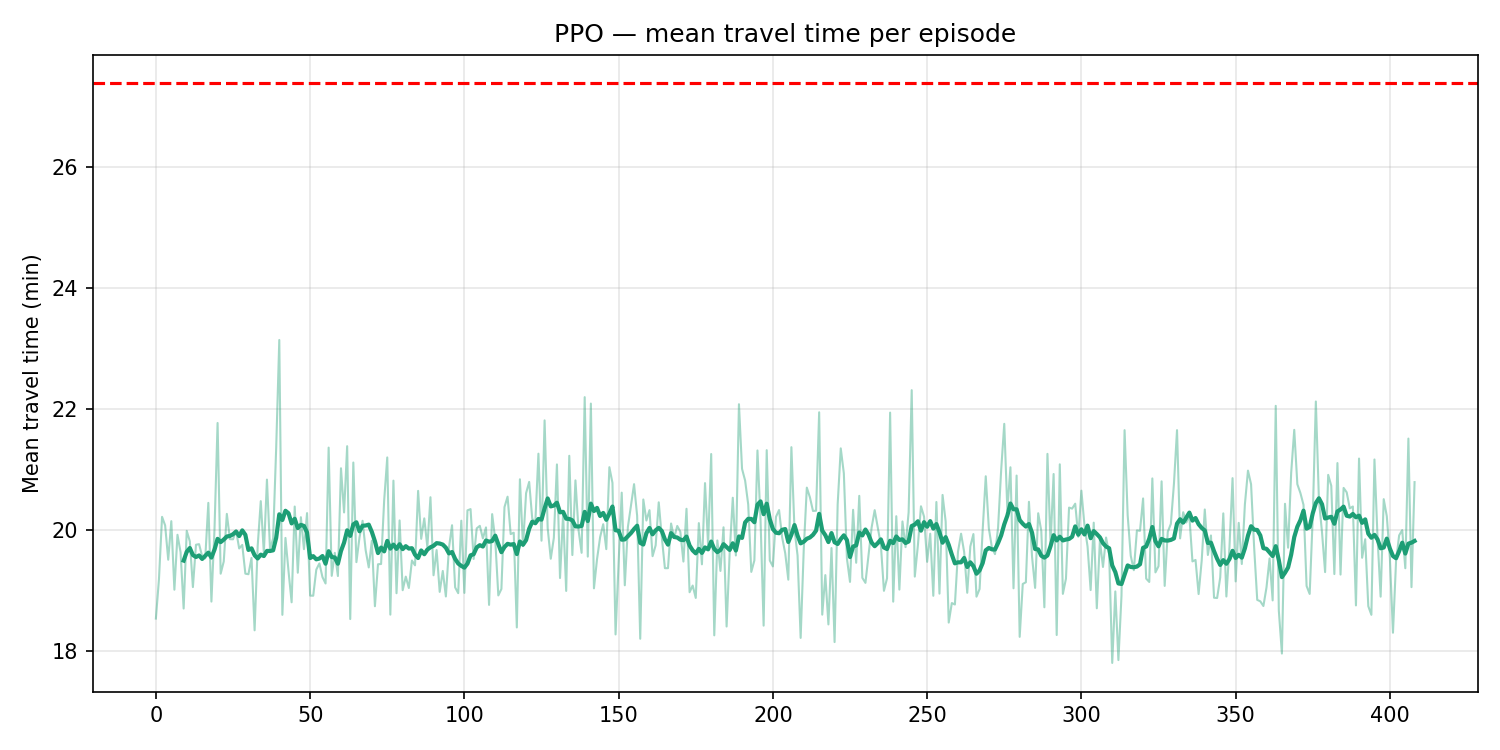
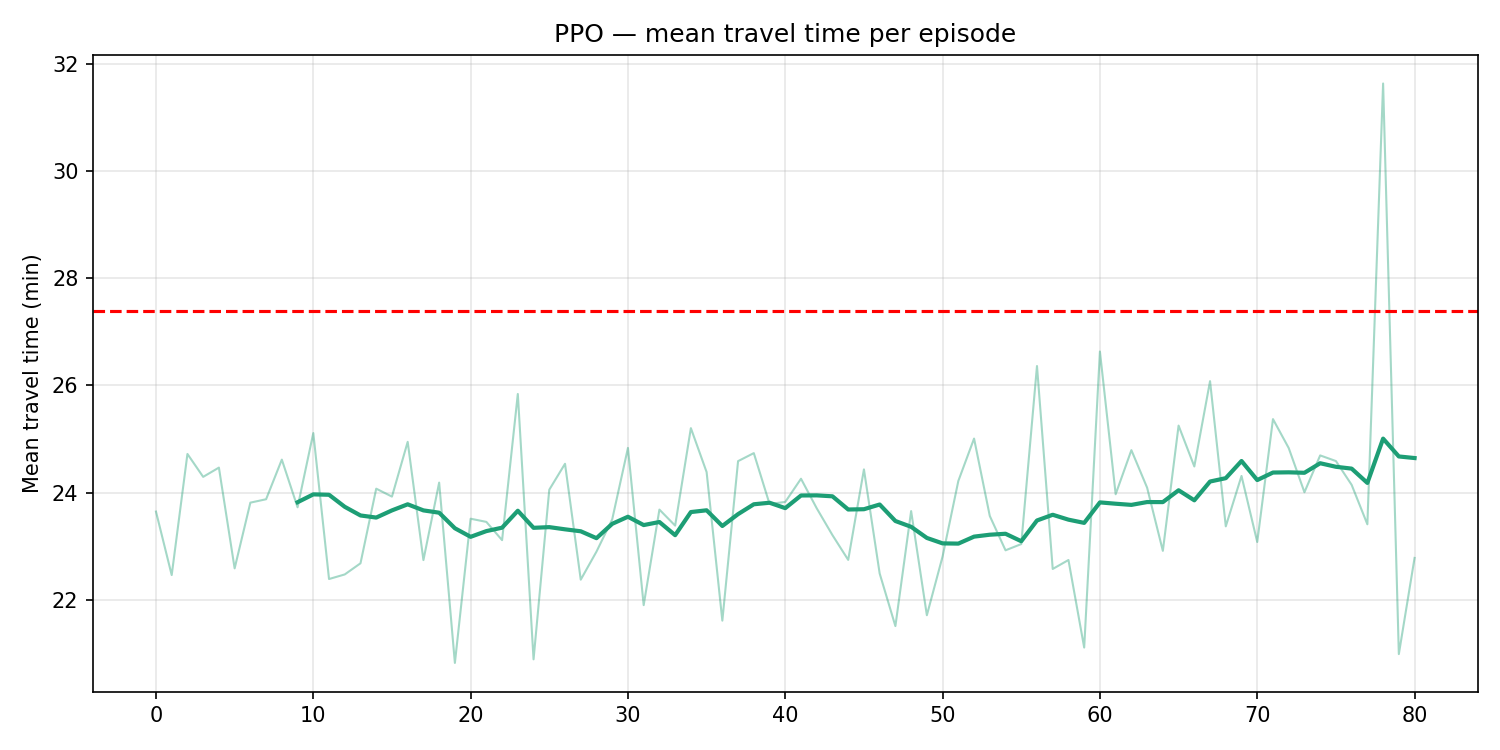
quick fixes - changed frequency from multiplication to division and multipled the reward by 20

diff --git a/mbta_env.py b/mbta_env.py
@@ -267,7 +267,7 @@ class MBTAEnv(gym.Env):
                 self._G[u][v]["frequency"] = new_freq
                 
                 old_travel_time_min = self._G[u][v]["travel_time_min"]
-                self._G[u][v]["travel_time_min"] *= self._G[u][v]["frequency"]
+                self._G[u][v]["travel_time_min"] = self._G[u][v]["travel_time_min"] / self._G[u][v]["frequency"]
                 # Making sure the change is realistic 
                 self._G[u][v]["travel_time_min"] = max(self._G[u][v]["travel_time_min"], old_travel_time_min * 2)
                 self._G[u][v]["travel_time_min"] = min(self._G[u][v]["travel_time_min"], old_travel_time_min / 2)
@@ -292,7 +292,7 @@ class MBTAEnv(gym.Env):
                 self._G[u][v]["frequency"] = new_freq
                 
                 old_travel_time_min = self._G[u][v]["travel_time_min"]
-                self._G[u][v]["travel_time_min"] *= self._G[u][v]["frequency"]
+                self._G[u][v]["travel_time_min"] = self._G[u][v]["travel_time_min"] / self._G[u][v]["frequency"]
                 # Making sure the change is realistic 
                 self._G[u][v]["travel_time_min"] = max(self._G[u][v]["travel_time_min"], old_travel_time_min * 2)
                 self._G[u][v]["travel_time_min"] = min(self._G[u][v]["travel_time_min"], old_travel_time_min / 2)
@@ -319,7 +319,7 @@ class MBTAEnv(gym.Env):
         
         mean_tt = self._mean_travel_time()
         reachability = self._reachability()
-        reward = self._prev_mean_tt - mean_tt
+        reward = (self._prev_mean_tt - mean_tt) * 20
         self._prev_mean_tt = mean_tt
 
         # apply penalty for invalid actions - fallback for action masking

diff --git a/train_ppo.py b/train_ppo.py
@@ -24,7 +24,7 @@ from sb3_contrib.common.maskable.utils import get_action_masks
 from stable_baselines3.common.callbacks import BaseCallback
 
 # CHANGE 
-TOTAL_TIMESTEPS = 30720
+TOTAL_TIMESTEPS = 4096
 # DONT CHANGE
 MAX_STEPS = 50
 

diff --git a/train_dqn.py b/train_dqn.py
@@ -17,7 +17,7 @@ from mbta_env import MBTAEnv
 from dqn_agent import DQNAgent
 
 # CHANGE
-NUM_EPISODES   = 615
+NUM_EPISODES   = 82
 EPSILON_DECAY  = 0.99
 
 # DONT CHANGE
